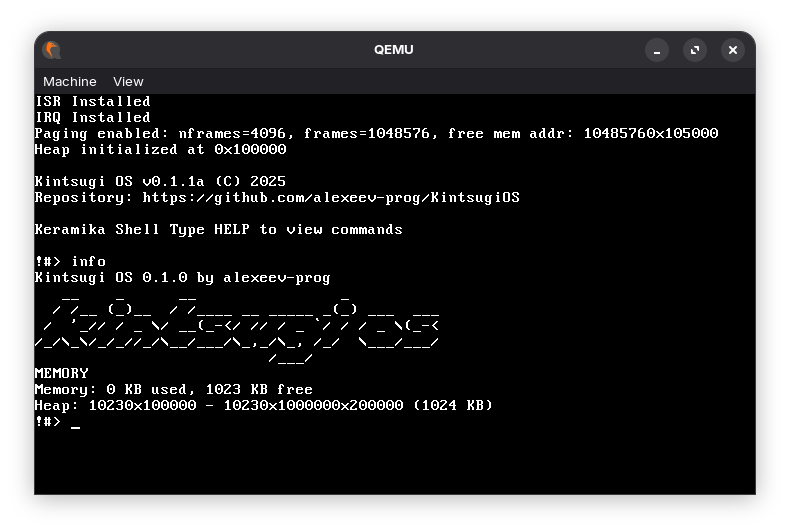
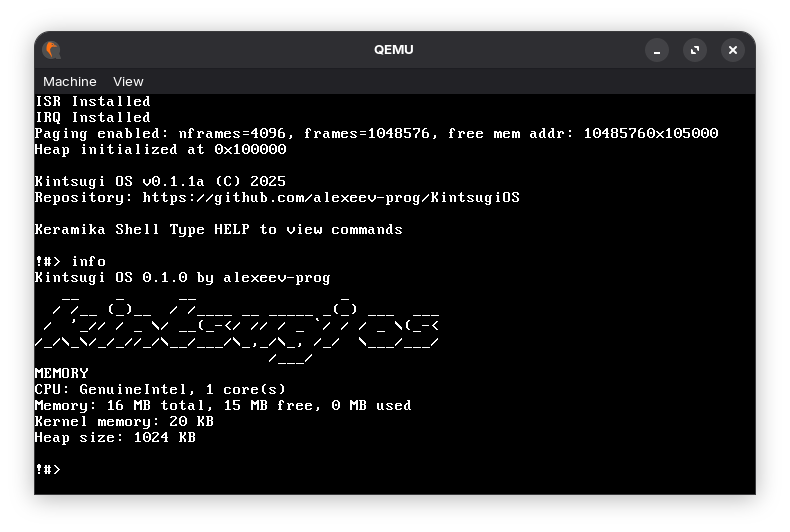
add sysinfo in kernel

Changed region(s): [[0.0304, 0.7218, 0.2734, 0.8421], [0.2734, 0.7218, 0.638, 0.782], [0.0304, 0.8722, 0.0608, 0.9023]]

diff --git a/src/kernel/kernel/sysinfo.c b/src/kernel/kernel/sysinfo.c
@@ -1,0 +1,54 @@
+#include "sysinfo.h"
+#include "../kklibc/mem.h"
+#include "../kklibc/paging.h"
+#include "../kklibc/stdlib.h"
+
+static system_info_t sys_info;
+
+void detect_cpu(void) {
+    u32 eax, ebx, ecx, edx;
+    char vendor[13];
+
+    // Получаем vendor string
+    asm volatile("cpuid"
+                 : "=a"(eax), "=b"(ebx), "=c"(ecx), "=d"(edx)
+                 : "a"(0));
+
+    *((u32*)vendor) = ebx;
+    *((u32*)(vendor + 4)) = edx;
+    *((u32*)(vendor + 8)) = ecx;
+    vendor[12] = '\0';
+
+    strcpy(sys_info.cpu_vendor, vendor);
+
+    // Получаем информацию о функциях процессора
+    asm volatile("cpuid"
+                 : "=a"(eax), "=b"(ebx), "=c"(ecx), "=d"(edx)
+                 : "a"(1));
+
+    // упрощение
+    sys_info.cpu_cores = 1;
+}
+
+void detect_memory() {
+    // Используем битовую карту фреймов из пейджинга для определения памяти
+    sys_info.total_memory = nframes * PAGE_SIZE;
+    sys_info.free_memory = 0;
+
+    // Подсчитываем свободные фреймы
+    for (u32 i = 0; i < nframes; i++) {
+        if (!test_frame(i * PAGE_SIZE)) {
+            sys_info.free_memory += PAGE_SIZE;
+        }
+    }
+
+    sys_info.used_memory = sys_info.total_memory - sys_info.free_memory;
+    sys_info.kernel_memory = free_mem_addr - HEAP_START;
+    sys_info.heap_size = HEAP_SIZE;
+}
+
+system_info_t* get_system_info() {
+    detect_cpu();
+    detect_memory();
+    return &sys_info;
+}

diff --git a/src/kernel/kernel/utils.c b/src/kernel/kernel/utils.c
@@ -9,6 +9,7 @@
 #include "../drivers/screen.h"
 #include "../kklibc/kklibc.h"
 #include "../cpu/ports.h"
+#include "sysinfo.h"
 
 void fibonacci_command(char **args) {
     if (!args[0]) {
@@ -94,12 +95,15 @@ void halt_cpu(char** args) {
 }
 
 void sysinfo_command() {
-    meminfo_t meminfo = get_meminfo();
-    printf("Memory: %d KB used, %d KB free\n",
-            meminfo.total_used / 1024, meminfo.total_free / 1024);
-    printf("Heap: %x - %x (%d KB)",
-            meminfo.heap_start, meminfo.heap_current_end,
-            (meminfo.heap_current_end - meminfo.heap_start) / 1024);
+    system_info_t* info = get_system_info();
+
+    printf("CPU: %s, %d core(s)\n", info->cpu_vendor, info->cpu_cores);
+    printf("Memory: %d MB total, %d MB free, %d MB used\n",
+            info->total_memory / (1024 * 1024),
+            info->free_memory / (1024 * 1024),
+            info->used_memory / (1024 * 1024));
+    printf("Kernel memory: %d KB\n", info->kernel_memory / 1024);
+    printf("Heap size: %d KB\n", info->heap_size / 1024);
 }
 
 void info_command_shell(char** args) {

diff --git a/src/kernel/kernel/sysinfo.h b/src/kernel/kernel/sysinfo.h
@@ -1,0 +1,22 @@
+#ifndef SYSINFO_H
+#define SYSINFO_H
+
+#include "../kklibc/ctypes.h"
+
+typedef struct {
+    u32 total_memory;
+    u32 free_memory;
+    u32 used_memory;
+    u32 kernel_memory;
+    u32 heap_size;
+    u32 cpu_speed; // в MHz
+    char cpu_vendor[13];
+    u8 cpu_cores;
+} system_info_t;
+
+// Функции для получения информации
+void detect_cpu(void);
+void detect_memory(void);
+system_info_t* get_system_info();
+
+#endif

diff --git a/src/kernel/kklibc/paging.h b/src/kernel/kklibc/paging.h
@@ -10,6 +10,8 @@
 
 #define PAGE_SIZE 0x1000
 
+extern u32 nframes;
+
 /* Внутренняя функция выделения памяти */
 u32 pkmalloc_internal(u32 sz, int align, u32 *phys);
 
@@ -93,5 +95,6 @@ void page_fault(registers_t regs);
 
 void alloc_frame(page_t *page, int is_kernel, int is_writeable);
 void free_frame(page_t *page);
+u32 test_frame(u32 frame_addr);
 
 #endif

diff --git a/src/kernel/kklibc/paging.c b/src/kernel/kklibc/paging.c
@@ -78,7 +78,7 @@ static void clear_frame(u32 frame_addr) {
 }
 
 /* Проверка занятости фрейма */
-static u32 test_frame(u32 frame_addr) {
+u32 test_frame(u32 frame_addr) {
     u32 frame = frame_addr/0x1000;
     u32 idx = INDEX_FROM_BIT(frame);
     u32 off = OFFSET_FROM_BIT(frame);

diff --git a/CHANGELOG.md b/CHANGELOG.md
@@ -1,3 +1,9 @@
+commit cec2ae3ea56da2ea7753122dd91053073b0f6099
+Author: Alexeev Bronislav <alexeev.dev@mail.ru>
+Date:   Mon Aug 25 14:58:58 2025 +0700
+
+    update readme
+
 commit 9b746484f95ced37c6ab2f2ac6c6bbb48b051a59
 Author: Alexeev Bronislav <alexeev.dev@mail.ru>
 Date:   Mon Aug 25 07:39:23 2025 +0700
